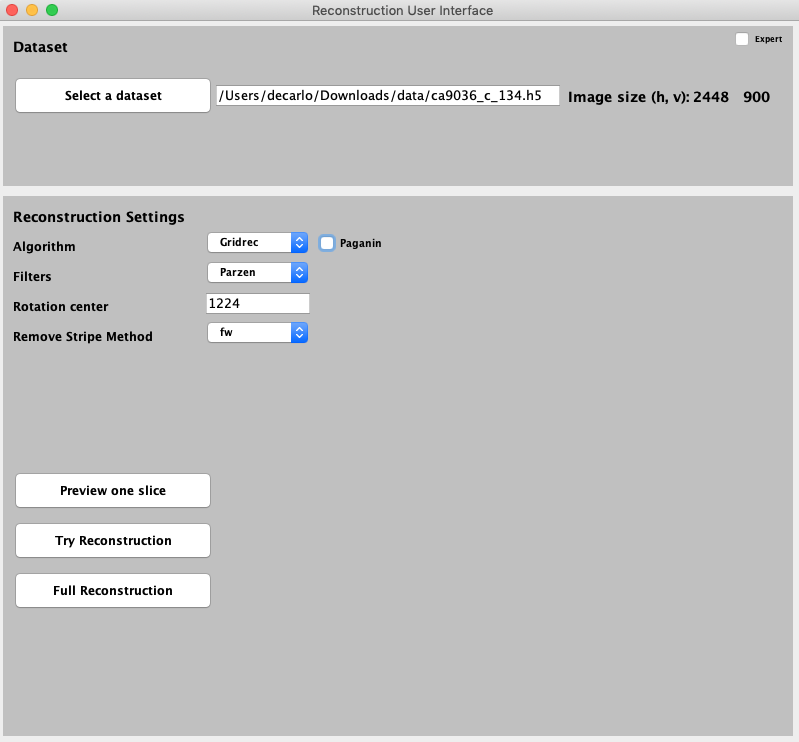
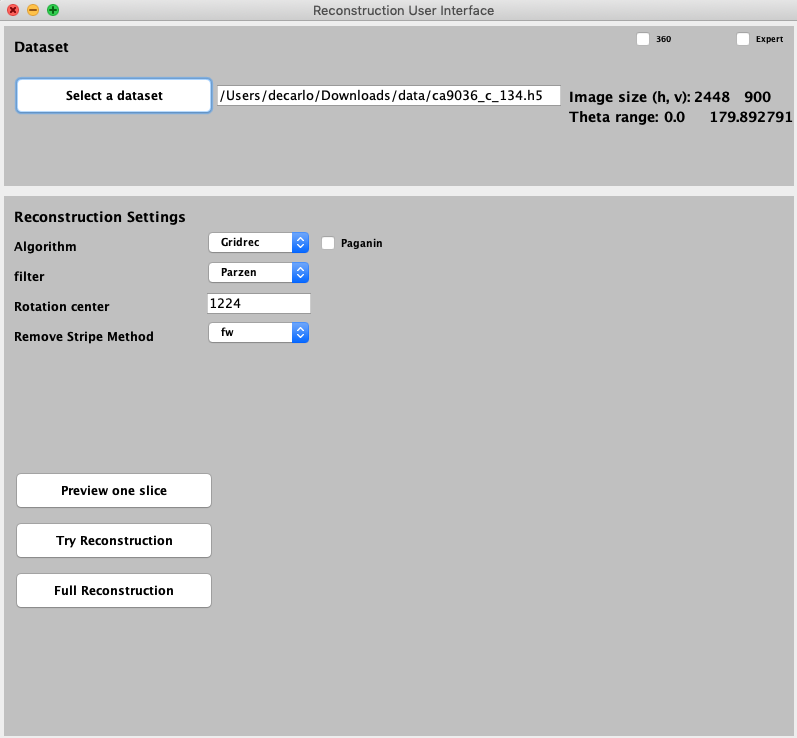
added theta reading

diff --git a/tomopy_ui/tomopy_ui.py b/tomopy_ui/tomopy_ui.py
@@ -19,8 +19,6 @@ from hdf.object.h5 import H5File
 from hdf.object import Dataset
 import hdf 
 
-global selectedDatasetField
-
 sys.path.append('/Users/decarlo/conda/tomopy_ui/tomopy_ui')
 
 import panel
@@ -45,6 +43,16 @@ def read_hdf_meta(file_name, hdf_path):
     else:
         return 0
 
+def read_hdf_theta(file_name, hdf_path):
+    
+    dataFile = H5File(file_name, H5File.READ)
+    fp = dataFile.get(hdf_path)
+
+    if fp is not None:
+        return fp.getData()
+    else:
+        return 0
+
 def datasetSelector(event):
 
     datasetChooser = OpenDialog("Select a dataset")
@@ -66,17 +74,41 @@ def datasetSelector(event):
         dataset_parameters.energy = read_hdf_meta(full_file_name, "/measurement/instrument/monochromator/energy")
         dataset_parameters.propagation_distance = read_hdf_meta(full_file_name, "/measurement/instrument/camera_motor_stack/setup/camera_distance")
         dataset_parameters.pixel_size = read_hdf_meta(full_file_name, "/measurement/instrument/detection_system/objective/resolution")
+        dataset_parameters.theta = read_hdf_theta(full_file_name, "/exchange/theta")
+        dataset_parameters.thetaStart = dataset_parameters.theta[0]
+        dataset_parameters.thetaEnd = dataset_parameters.theta[0-1]
+        print(dataset_parameters.theta[-1])
         dataset_parameters.height = stack.height
         dataset_parameters.width = stack.width
+        
+
+        print("**************************************")
+        print("**************************************")
+        print("**************************************")
+        print("**************************************")
+        print(dir(stack))
+        print(dataset_parameters.theta[0])
+        print(dataset_parameters.theta[-1])
+        print("**************************************")
+        print("**************************************")
+        print("**************************************")
+        print("**************************************")
+        print("**************************************")
         flds.energyField.setText(str(dataset_parameters.energy))
         flds.propagation_distanceField.setText(str(dataset_parameters.propagation_distance))
         flds.pixel_sizeField.setText(str(dataset_parameters.pixel_size))
+        flds.datasetThetaStartLabel.setText(str(dataset_parameters.thetaStart))
+        flds.datasetThetaEndLabel.setText(str(dataset_parameters.thetaEnd))
         flds.datasetHLabel.setText(str(dataset_parameters.width))
         flds.datasetVLabel.setText(str(dataset_parameters.height))
         flds.centerField.setText(str(dataset_parameters.width/2))
+
         flds.datasetImageSizeLabel.setVisible(True)
         flds.datasetHLabel.setVisible(True)
         flds.datasetVLabel.setVisible(True)
+        flds.datasetThetaLabel.setVisible(True)
+        flds.datasetThetaStartLabel.setVisible(True)
+        flds.datasetThetaEndLabel.setVisible(True)
 
 def reconstruct(event):
 
@@ -208,11 +240,18 @@ flds.chooseDatasetPanel.add(flds.datasetImageSizeLabel)
 flds.chooseDatasetPanel.add(flds.datasetHLabel)
 flds.chooseDatasetPanel.add(flds.datasetVLabel)
 
+flds.chooseDatasetPanel.add(flds.datasetThetaLabel)
+flds.chooseDatasetPanel.add(flds.datasetThetaStartLabel)
+flds.chooseDatasetPanel.add(flds.datasetThetaEndLabel)
+
 flds.chooseDatasetPanel.add(flds.datasetSelectionButton)
 flds.datasetSelectionButton.actionPerformed = datasetSelector
 
 # Expert box
 flds.chooseDatasetPanel.add(flds.expertBox)
+
+# 360t box
+flds.chooseDatasetPanel.add(flds.flipStichBox)
 
 # Create a panel for reconstrution settings
 contentPane.add(flds.recoSettingsPanel)

diff --git a/tomopy_ui/fields.py b/tomopy_ui/fields.py
@@ -83,11 +83,19 @@ class Fields():
         self.datasetSelectionButton = GUI.createButton("Select a dataset", 10, 50, 200, 40, 12, True)
         self.selectedDatasetField = GUI.createTextField(20, 210, 57, 350, 25, True,"")
 
+        # Image size
         self.datasetImageSizeLabel = GUI.createLabel("Image size (h, v):", 565, 55, 200, 30, 2, 14, False)
         self.datasetHLabel = GUI.createLabel("", 690, 55, 200, 30, 2, 14, False)
         self.datasetVLabel = GUI.createLabel("", 740, 55, 200, 30, 2, 14, False)
+ 
+        # Theta
+        self.datasetThetaLabel = GUI.createLabel("Theta range:", 565, 75, 200, 30, 2, 14, False)
+        self.datasetThetaStartLabel = GUI.createLabel("", 660, 75, 200, 30, 2, 14, False)
+        self.datasetThetaEndLabel = GUI.createLabel("", 705, 75, 200, 30, 2, 14, False)
                
         # Expert box
         self.expertBox = GUI.createCheckBox("Expert", 725, 5, 60, 15, 8, True)
 
+        # 360 box
+        self.flipStichBox = GUI.createCheckBox("360", 625, 5, 60, 15, 8, True)
 
